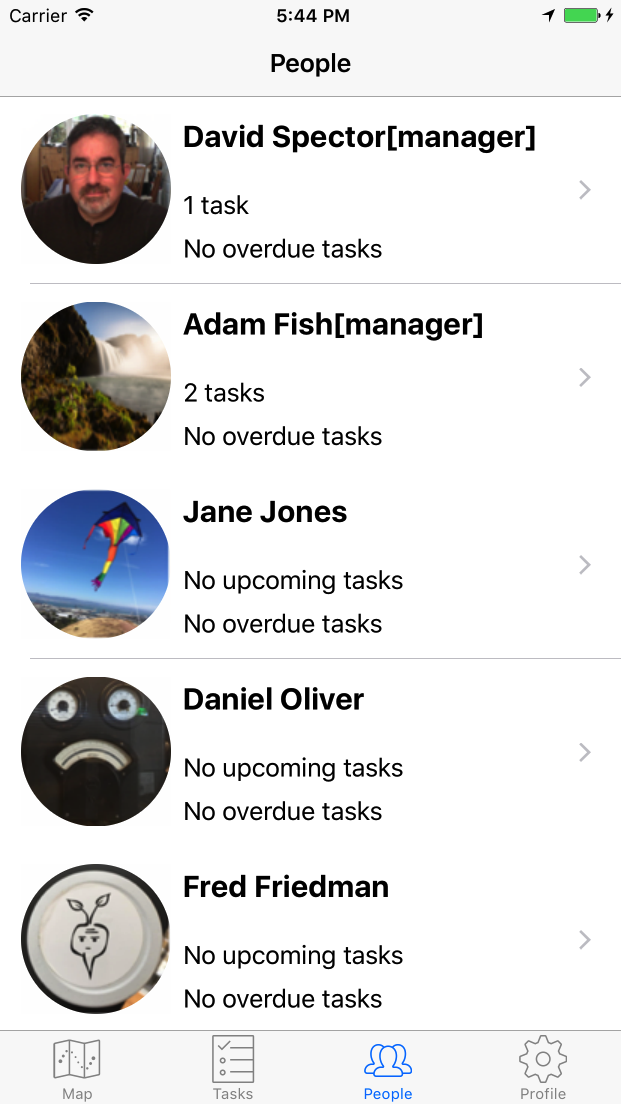
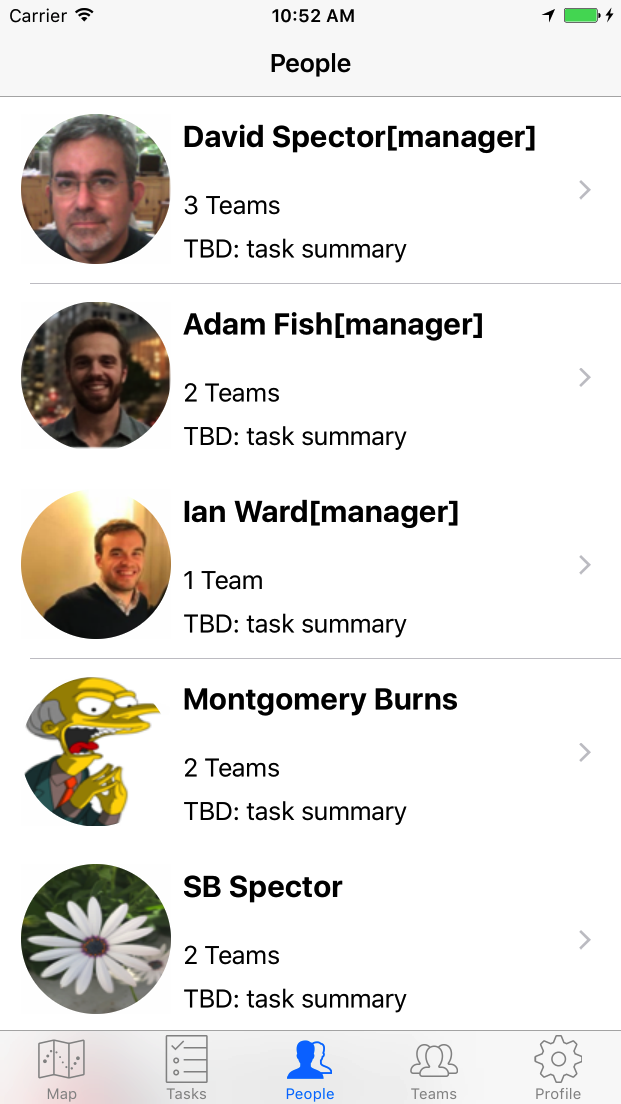
docs additions for MR aspects

diff --git a/README.md b/README.md
@@ -23,7 +23,8 @@ Some of the goals for this app are:
     - A location which defines a specific place the task is to be performed
     - A due-date for the task
     - A completed date (the date a task was marked as done)
-    - An assigned worker/field agent who is tasks with "completing" this task
+    - A tream to which this teask is assigned.  If not assigned to a specific teram it's a "free floating" task.
+    - An assigned worker/field agent who is tasks with "completing" this task - if not assigned to a specific worker, yet is assgned to the term it's a team task that can be worked on by any team member (these distinctions show up in the various views of tasks).
 
 1. Ability to have workers receive new tasks that show up in their list of assigned tasks.
 
@@ -49,6 +50,8 @@ This application demonstrates features of the [Realm Mobile Platform](http://lre
 The following modules will be installed as part of the Cocoapods setup:
 
  - [ActionSheetPicker](https://github.com/skywinder/ActionSheetPicker-3.0) for selection of dates by Petr Korolev
+
+ - [BTNavigationDropdownMenu](https://github.com/realm-demos/BTNavigationDropdownMenu) a dropdown nemu for UINavigationBar by Pham Ba Tho
 
  - [Eureka](https://github.com/xmartlabs/Eureka) a formbuilder for iOS in Swift by xmartlabs
 
@@ -105,7 +108,8 @@ The TeamWork app is a classic "tab bar" application - that is to say it supports
 
 These are:
  * A Map view
- * A Tasks List
+ * A Tasks List - for Admins the defaut is a listing of al tasks in the system; a pull down menu (availabne to all users) lsts available teams.  Selecting a team makes it the default team view and will change what the map view displays.
+ * A Teams List - Admins create/edtit teams as well as see all teasm; regualr users can see teams they are on.
  * A list of people in the system (this view is restricted to user with a "manager" role)
  * A Profile view where personal details (name, profile image) can be set
 
@@ -133,11 +137,30 @@ The task list shows the tasks assigned to a given field worker, or, if the user 
 <center> <img src="Graphics/TeamWork-Tasks-Manager.png" width="310" height="552" />  <img src="Graphics/TeamWork-TaskDetail.png" width="310" height="552" /><br/>Tasks - Manager's View</center><br>
 
 
+<img src="Graphics/Teamwork-Tasks-selectTeam.png" width="310" height="552" />
+<img src="Graphics/Teamwork-tasks-master-list.png" width="310" height="552" />
+
+
 # New Task Creation
+
 Managers can create new tasks. These have a title, a detail description and can be assigned a work location by either typing an address, or directly by manipulating the map to find the desired location. Scrolling to the bottom of the task editor (not shown in this screen shot) it is possible to assign a due date and a field worker to accomplish the task.
 <center> <img src="Graphics/TeamWork-NewTask.png" width="310" height="552" /><br/>New Task Entry</center><br>
 
+# Team list
+
+Teamwork supports the concept of Teams.  A team can have as am memeber as neede and peple can be on multiple teams.
+
+<center> <img src="Graphics/Teamwork-teams.png" width="310" height="552" />
+<img src="Graphics/Teamwork-team-detail.png" width="310" height="552" />
+  </center>
+
+
+
+<img src="Graphics/Teamwork-tasks-by-team.png" width="310" height="552" />
+
+
 # People List and Detail
+
 Another manager feature is the ability to look at all the people in the TeamWork system and get a capsule summary of their upcoming and overdue tasks.
 
 <center> <img src="Graphics/TeamWork-People.png" width="310" height="552" /><br/>Person Detail View</center><br>
@@ -164,6 +187,7 @@ These simple models are composed into a multi-Realm system that looks like this:
 <center> <img src="Graphics/TeamWork-Multi-Realm-Overview.png"/><br/>TeamWork Model Overview</center><br>
 
 ## The Admin/Manager model/Realm Flow
+
 <center> <img src="Graphics/TeamWork-Multi-Realm-manager-paths.png"  /><br/>TeamWork Admin/Manager  Flow</center><br>
 
 ## The Worker model/Realm Flow
